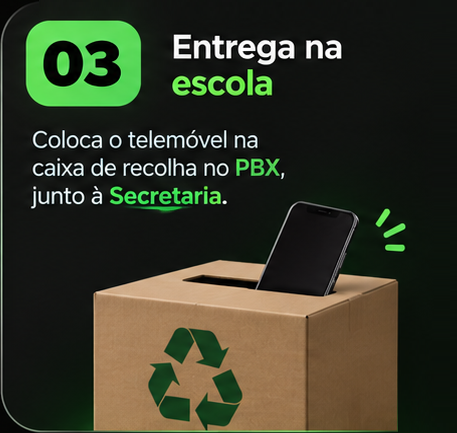
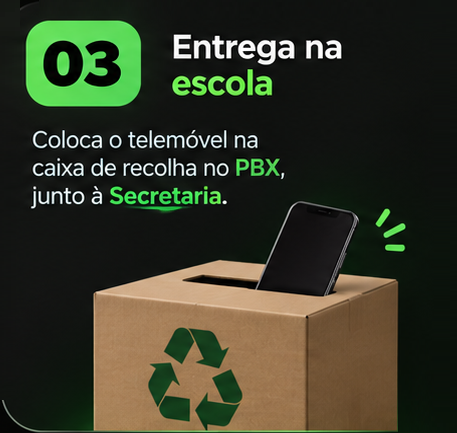
animaçao em algumas imagens e aside

Changed region(s): [[0.0, 0.03, 0.0306, 0.9307]]

diff --git a/css/style.css b/css/style.css
@@ -17,7 +17,6 @@ body{
     position: fixed;
     top: 12px;
     left: 0px;
-   
     background: white;
     color: #000000;
     padding: 8px;
@@ -31,7 +30,7 @@ body{
     box-sizing: border-box;
     border-bottom: 4px solid #39E75F;
     box-shadow: -2px 0 5px rgba(255, 255, 255, 0.5);
-    border-radius: 20px;
+    border-radius: 35px;
     align-items: center;
     left: 50%;
     transform: translateX(-50%);
@@ -107,22 +106,6 @@ header img {
     cursor: pointer;
 }
 
-.msg{
-    position: absolute;
-    top: 110%;
-    right: 50%;
-    transform: translateX(50%);
-    background: #5b615c;
-    color: rgb(240, 236, 236);
-    padding: 8px 12px;
-    border-radius: 6px;
-    font-size: 13px;
-    white-space: nowrap;
-    opacity: 0;
-    visibility: hidden;
-    z-index: 99999;
-    transition: 0.3s;
-}
 
 .header.pequeno div .msg{
     font-size: 10px;
@@ -145,7 +128,6 @@ header img {
     border-radius: 15px;
 }
 aside {
-    display: none;
     position: fixed;
     top: 0;
     right: 0;
@@ -155,6 +137,18 @@ aside {
     border-left: 3px solid #39E75F;
     box-shadow: -5px 0 25px rgba(0,0,0,0.6);
     z-index: 2000;
+    transform: translateX(100%);
+    opacity: 0;
+    visibility: hidden;
+    transition: transform 0.4s ease, opacity 0.4s ease,
+                visibility 0s linear 0.4s;
+}
+
+aside.aberto {
+    transform: translateX(0);
+    opacity: 1;
+    visibility: visible;
+    transition: transform 0.4s ease, opacity 0.4s ease, visibility 0s;
 }
 
 .btnCloseAside {
@@ -293,11 +287,17 @@ main h2{
 }
 
 .passos img {
-    width: 30%;
+    width: 25%;
     height: auto;
     box-shadow: -2px 0 5px rgba(245, 245, 245, 0.5);
     border: 4px solid #39E75F;
     margin-bottom: 30px;
+    transition: width 2s ease;
+}
+
+.passos img:hover {
+    width: 30%;
+    transition: width 2s ease;
 }
 
 .passos .one{

diff --git a/js/script.js b/js/script.js
@@ -55,17 +55,9 @@ function fcookies(){
   cookies.classList.add("fechado");
   document.getElementById("fundoCookies").style.display = "none";
   if(aceitouCookies){
-    cookieAceito.style.display = "block";
-    setTimeout(() => {
-      cookieAceito.style.display = "none";
-    }, 2000);
     localStorage.setItem("cookies", "aceite");
-  }
+  } 
   else{
-    cookieNegado.style.display = "block";
-    setTimeout(() => {
-      cookieNegado.style.display = "none";
-    }, 2000);
     localStorage.setItem("cookies", "recusado");
   }
 };
